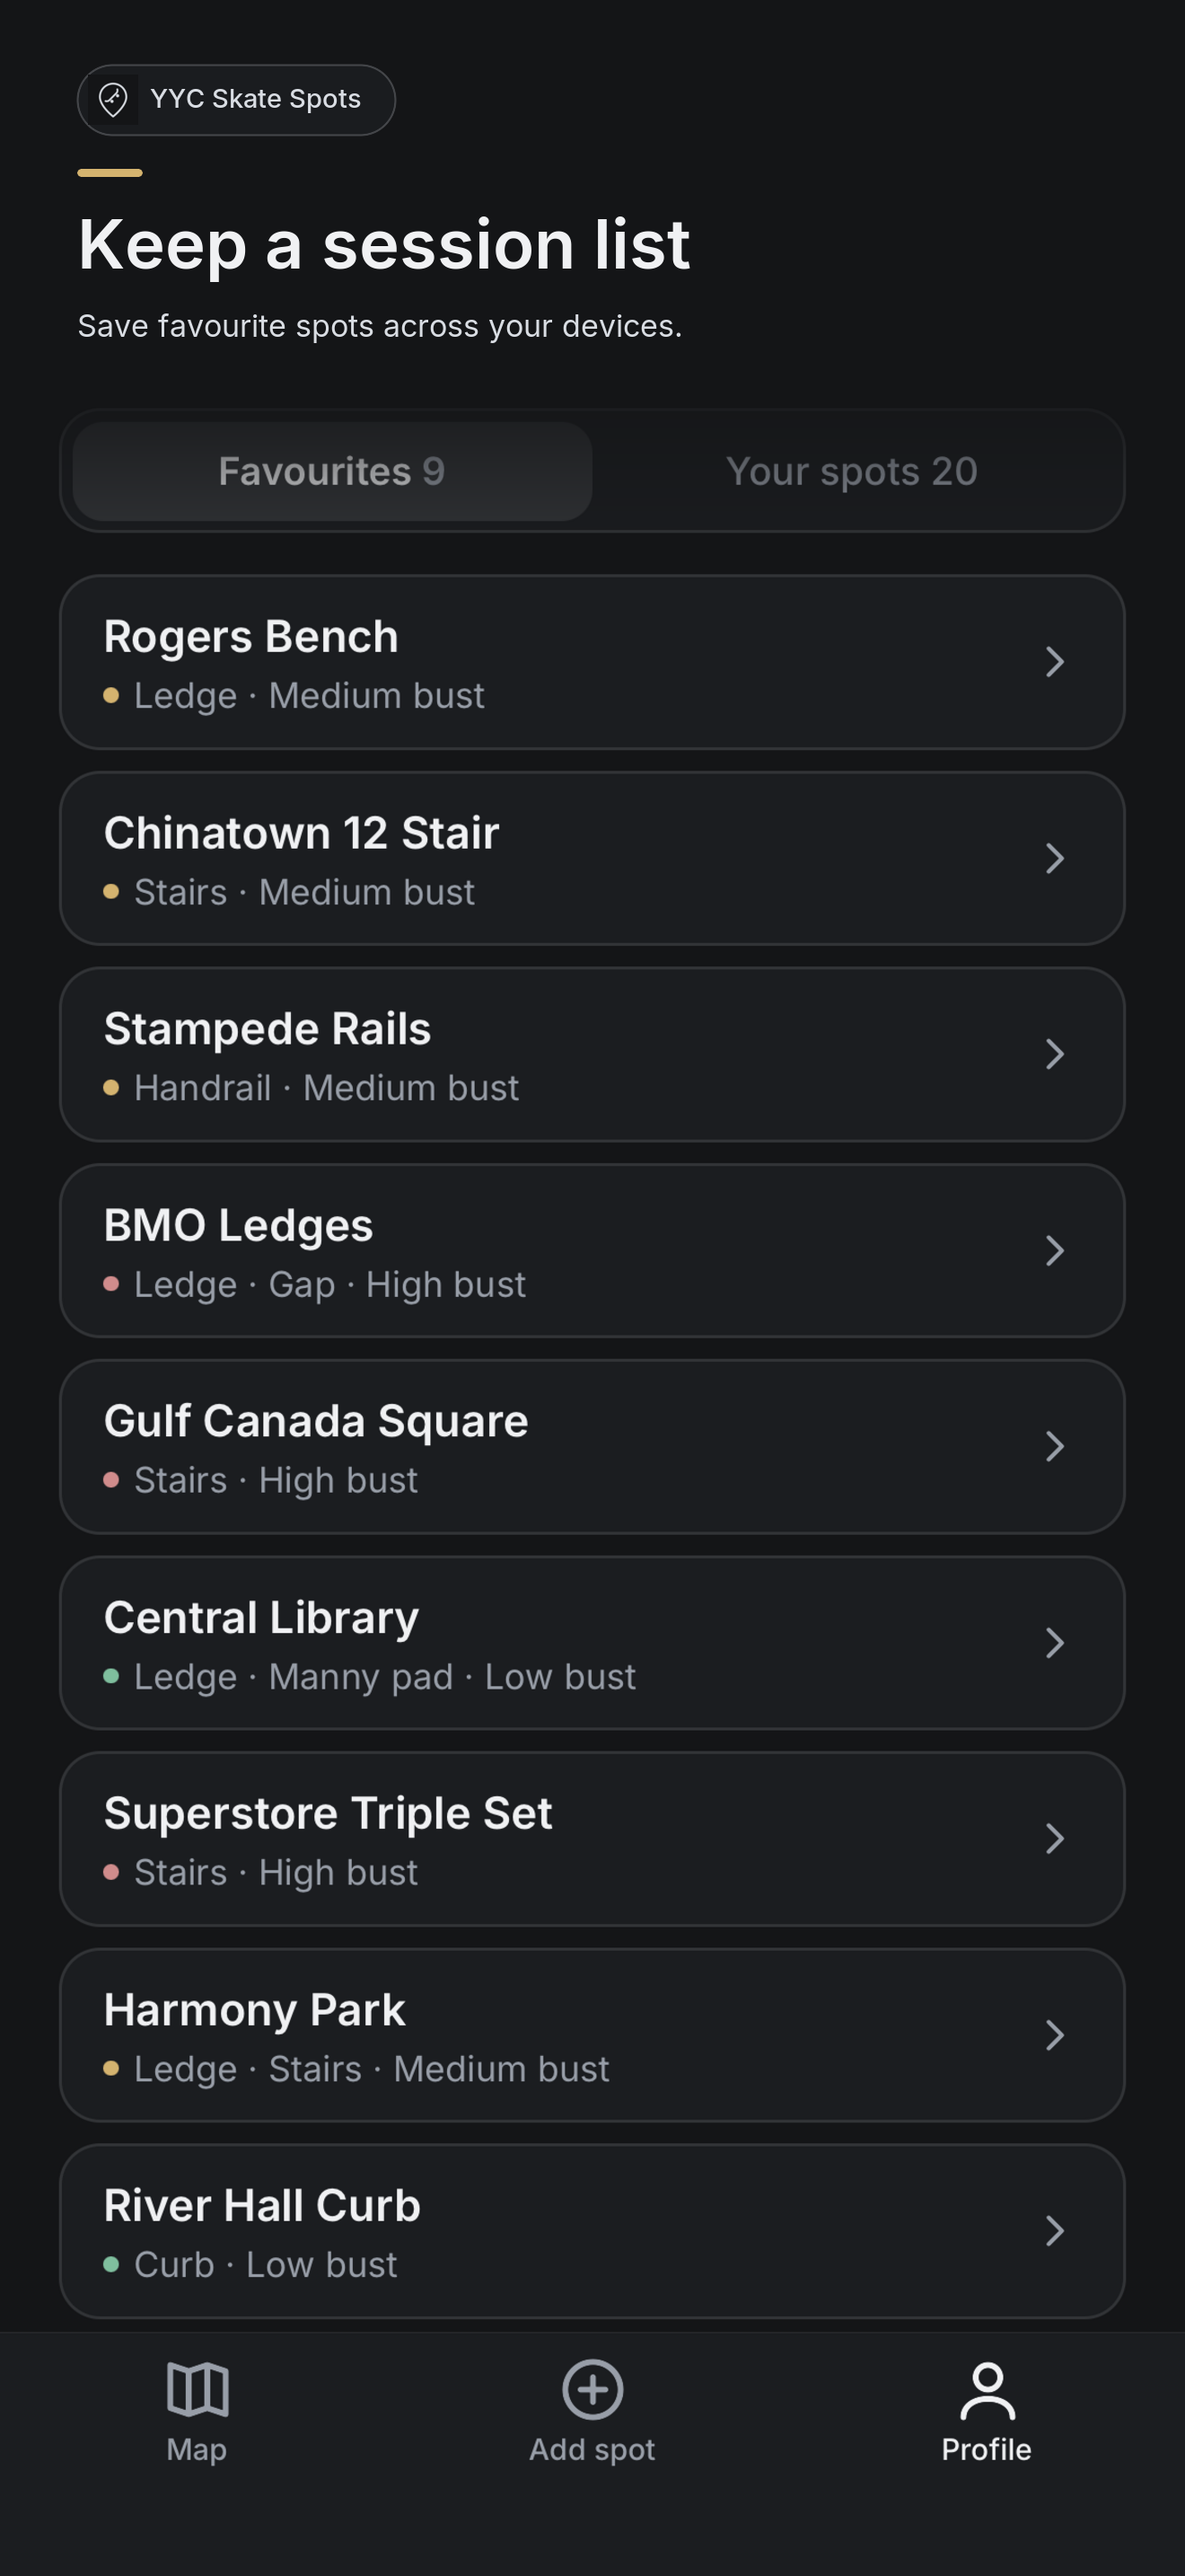
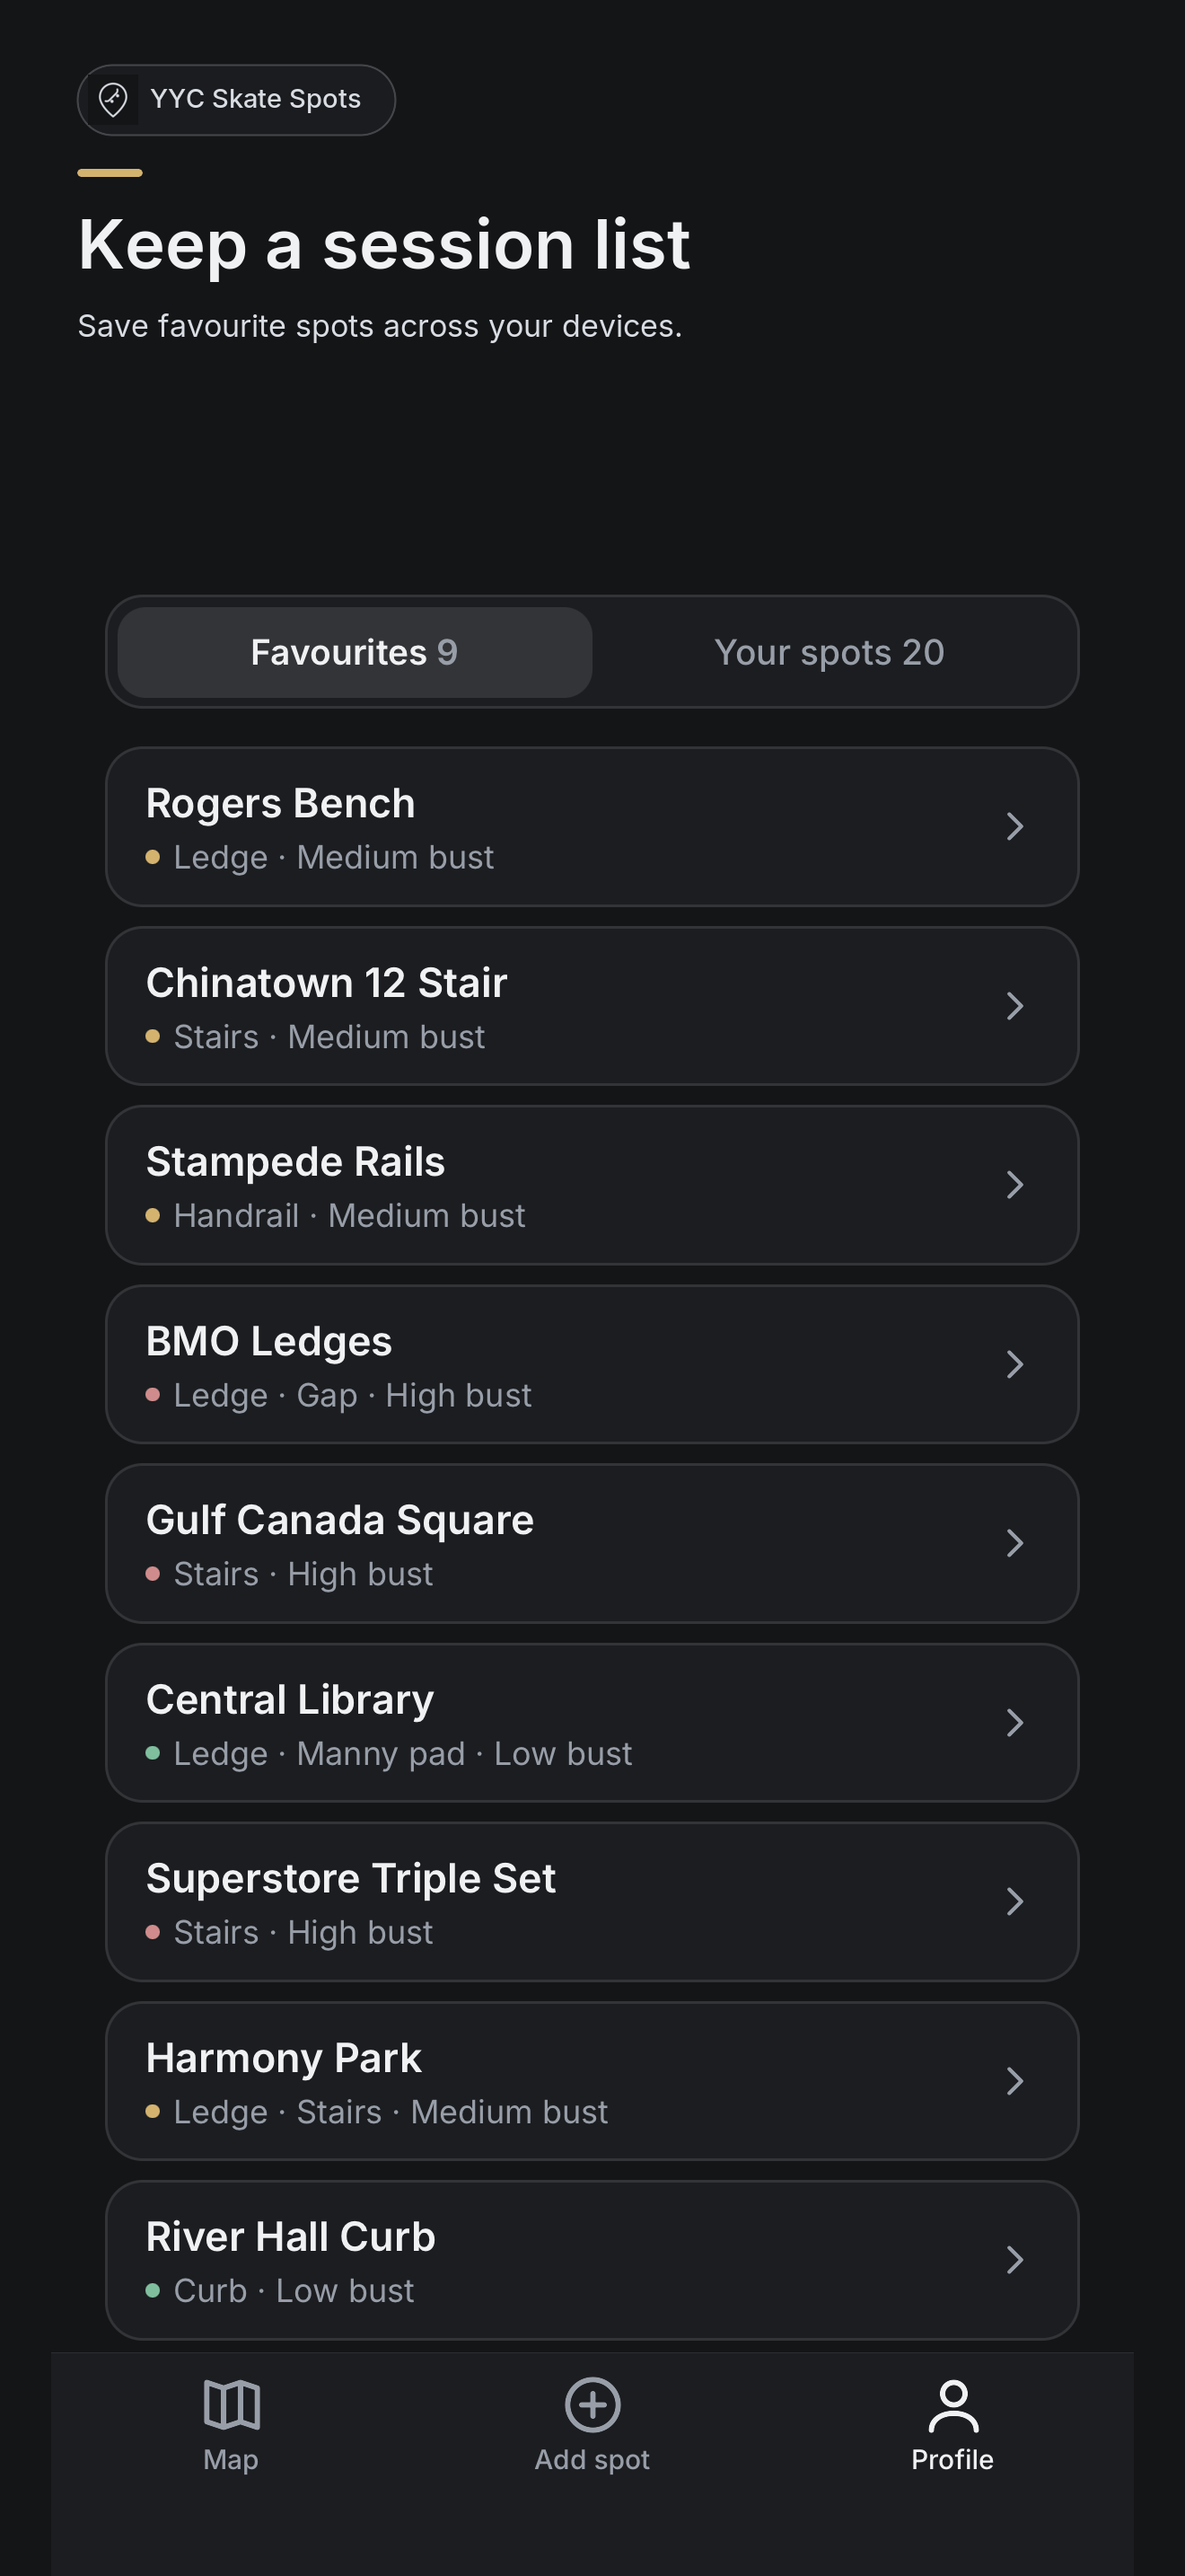
fix: preserve native screenshot resolution

diff --git a/docs/app-store-screenshot-plan.md b/docs/app-store-screenshot-plan.md
@@ -15,6 +15,9 @@ size and are opaque PNGs without alpha channels.
 The 1206 by 2622 pixel device captures are preserved in the adjacent `raw/` directory so later
 versions can update the presentation without recreating the app state. The profile source has its
 account and moderation header masked so the repository does not retain personal information.
+Each capture is placed at its native pixel size, centred horizontally and anchored to the bottom
+of the final canvas. The branded headline uses the additional canvas area without enlarging the app
+interface.
 
 ## Sequence and copy
 
@@ -116,7 +119,8 @@ to production.
   app data before upload.
 
 Apple permits one to ten screenshots and scales the highest-resolution set down when the interface
-is the same across device sizes. If the chosen phone does not produce an accepted 6.9-inch size,
-capture again on a listed device rather than stretching the image.
+is the same across device sizes. If a source capture does not match the final canvas, keep the app
+interface at its native pixel size and use the remaining canvas for framing or copy rather than
+stretching it.
 
 Reference: [Apple screenshot specifications](https://developer.apple.com/help/app-store-connect/reference/app-information/screenshot-specifications/)
